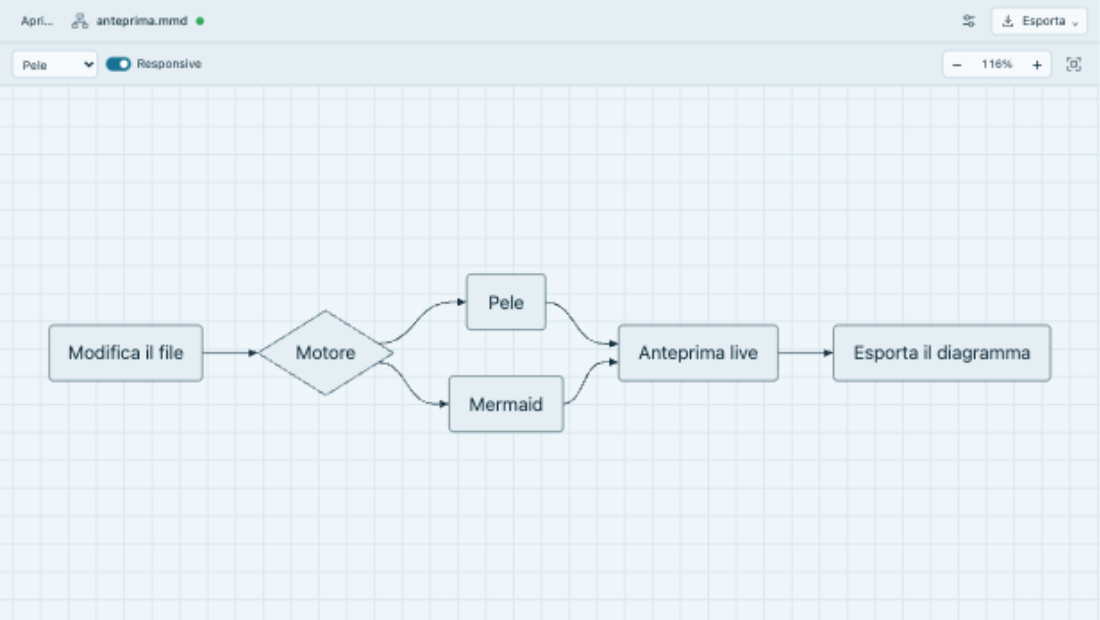
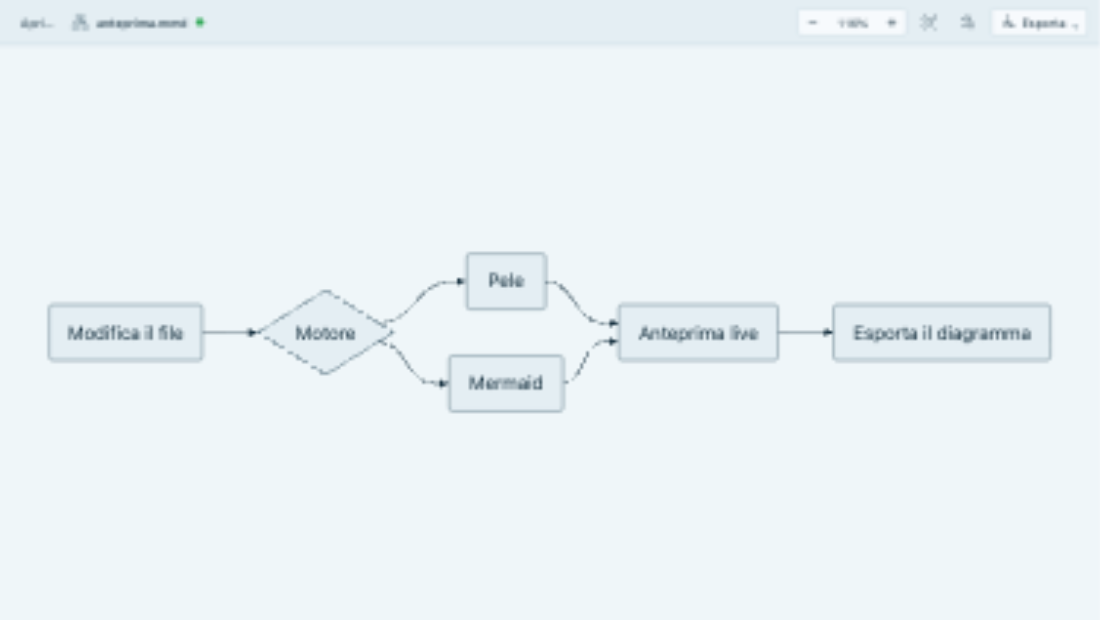
Compatta la barra e raccogli il rendering nelle impostazioni

diff --git a/public/index.html b/public/index.html
@@ -16,10 +16,24 @@
       <span id="file" class="file" title="nessun file">Nessun diagramma</span>
       <span id="live" class="dot" title="Stato aggiornamento live" aria-label="Stato aggiornamento live"></span>
     </div>
+    <div class="view-controls" role="group" aria-label="Zoom e inquadratura">
+      <div class="zoom-controls">
+        <button class="btn icon" data-zoom="out" title="Zoom indietro (−)" aria-label="Riduci zoom">−</button>
+        <button id="zoomLabel" class="btn wide" title="Centra al 100% (0)">100%</button>
+        <button class="btn icon" data-zoom="in" title="Zoom avanti (+)" aria-label="Aumenta zoom">+</button>
+      </div>
+      <button class="btn icon" id="fit" title="Adatta e centra (F)" aria-label="Adatta e centra"><svg viewBox="0 0 24 24" aria-hidden="true" fill="none" stroke="currentColor" stroke-width="1.6" stroke-linecap="round" stroke-linejoin="round"><path d="M8 3H3v5m13-5h5v5M3 16v5h5m13-5v5h-5"/><rect x="8" y="8" width="8" height="8" rx="1"/></svg></button>
+    </div>
     <div class="document-actions">
       <div class="menu">
         <button class="btn icon" id="optionsBtn" title="Opzioni anteprima" aria-label="Opzioni anteprima" aria-expanded="false" aria-controls="optionsMenu"><svg viewBox="0 0 24 24" aria-hidden="true" fill="none" stroke="currentColor" stroke-width="1.6" stroke-linecap="round" stroke-linejoin="round"><path d="M4 7h16M4 17h16"/><circle cx="9" cy="7" r="3" fill="var(--bar)"/><circle cx="15" cy="17" r="3" fill="var(--bar)"/></svg></button>
         <div id="optionsMenu" class="dropdown options" hidden>
+          <label class="option-field" for="engine">Motore di rendering
+            <select id="engine" class="btn" title="Motore di rendering"><option value="pele">Pele</option><option value="mermaid">Mermaid</option></select>
+          </label>
+          <label class="responsive-toggle" title="Adatta il layout alla larghezza del pannello">
+            <input type="checkbox" role="switch" id="responsive" checked><span class="switch-track" aria-hidden="true"></span><span>Responsive</span>
+          </label>
           <label class="option-field" for="theme">Tema del diagramma
             <select id="theme" class="btn">
               <option value="auto">Automatico</option><option value="default">Chiaro</option>
@@ -32,7 +46,7 @@
         </div>
       </div>
       <div class="menu">
-        <button class="btn export" id="exportBtn" aria-expanded="false" aria-controls="exportMenu"><svg viewBox="0 0 24 24" aria-hidden="true" fill="none" stroke="currentColor" stroke-width="1.6" stroke-linecap="round" stroke-linejoin="round"><path d="M12 3v12m-4-4 4 4 4-4M5 16v4h14v-4"/></svg><span>Esporta</span><span class="chevron">⌄</span></button>
+        <button class="btn export" id="exportBtn" aria-label="Esporta diagramma" title="Esporta diagramma" aria-expanded="false" aria-controls="exportMenu"><svg viewBox="0 0 24 24" aria-hidden="true" fill="none" stroke="currentColor" stroke-width="1.6" stroke-linecap="round" stroke-linejoin="round"><path d="M12 3v12m-4-4 4 4 4-4M5 16v4h14v-4"/></svg><span>Esporta</span><span class="chevron">⌄</span></button>
         <div class="dropdown" id="exportMenu" hidden>
           <button data-export="svg">SVG <span>Vettoriale</span></button>
           <button data-export="png@1">PNG <span>1×</span></button>
@@ -41,22 +55,6 @@
           <button data-export="pdf">PDF</button>
         </div>
       </div>
-    </div>
-  </div>
-  <div class="controls-row">
-    <div class="render-controls">
-      <select id="engine" class="btn engine" aria-label="Motore di rendering" title="Motore di rendering"><option value="pele">Pele</option><option value="mermaid">Mermaid</option></select>
-      <label class="responsive-toggle" title="Adatta il layout alla larghezza del pannello">
-        <input type="checkbox" role="switch" id="responsive" checked><span class="switch-track" aria-hidden="true"></span><span>Responsive</span>
-      </label>
-    </div>
-    <div class="view-controls" role="group" aria-label="Zoom e inquadratura">
-      <div class="zoom-controls">
-        <button class="btn icon" data-zoom="out" title="Zoom indietro (−)" aria-label="Riduci zoom">−</button>
-        <button id="zoomLabel" class="btn wide" title="Centra al 100% (0)">100%</button>
-        <button class="btn icon" data-zoom="in" title="Zoom avanti (+)" aria-label="Aumenta zoom">+</button>
-      </div>
-      <button class="btn icon" id="fit" title="Adatta e centra (F)" aria-label="Adatta e centra"><svg viewBox="0 0 24 24" aria-hidden="true" fill="none" stroke="currentColor" stroke-width="1.6" stroke-linecap="round" stroke-linejoin="round"><path d="M8 3H3v5m13-5h5v5M3 16v5h5m13-5v5h-5"/><rect x="8" y="8" width="8" height="8" rx="1"/></svg></button>
     </div>
   </div>
 </header>

diff --git a/public/style.css b/public/style.css
@@ -41,7 +41,7 @@ html, body {
   font: 13px/1.45 -apple-system, BlinkMacSystemFont, "Segoe UI", Inter, system-ui, sans-serif;
 }
 
-/* A document strip and a stable control strip, even in a narrow editor group. */
+/* A single flexible command bar; rendering preferences live in Options. */
 body { display: flex; flex-direction: column; }
 .bar {
   flex: none; background: var(--bar); border-bottom: 1px solid var(--line);
@@ -49,12 +49,11 @@ body { display: flex; flex-direction: column; }
   font-family: var(--vscode-font-family, -apple-system, BlinkMacSystemFont, "Segoe UI", sans-serif);
   font-size: 12px;
 }
-.document-row, .controls-row { display: flex; align-items: center; justify-content: space-between; min-width: 0; gap: 12px; padding: 7px 12px; }
-.document-row { min-height: 39px; }
-.controls-row { border-top: 1px solid var(--line); min-height: 43px; }
-.document-info, .document-actions, .render-controls, .view-controls { display: flex; align-items: center; gap: 8px; min-width: 0; }
+.document-row { display: flex; align-items: center; justify-content: space-between; min-width: 0; gap: 12px; padding: 7px 12px; }
+.document-row { min-height: 44px; }
+.document-info, .document-actions, .view-controls { display: flex; align-items: center; gap: 8px; min-width: 0; }
 .document-info { flex: 1; }
-.document-actions, .view-controls, .render-controls { flex: none; }
+.document-actions, .view-controls { flex: none; }
 .document-actions { position: relative; }
 .document-actions > .menu:first-child { position: static; }
 .document-icon { display: flex; color: var(--dim); flex: none; }
@@ -72,7 +71,6 @@ body { display: flex; flex-direction: column; }
 .btn.icon { width: 28px; padding: 0; font-size: 16px; }
 .btn.wide { min-width: 52px; padding: 0 3px; font-variant-numeric: tabular-nums; font-size: 11px; }
 select.btn { appearance: auto; background: var(--btn); border-color: var(--line); padding: 0 6px; }
-.engine { width: 86px; }
 .zoom-controls { display: flex; align-items: center; background: var(--btn); border: 1px solid var(--line); border-radius: 6px; }
 .zoom-controls .btn { height: 26px; }
 .export { border-color: var(--line); background: var(--btn); }
@@ -99,12 +97,24 @@ select.btn { appearance: auto; background: var(--btn); border-color: var(--line)
   --accent: var(--vscode-focusBorder, #007fd4);
   --grid: color-mix(in srgb, var(--fg) 6%, var(--bg));
 }
-@media (max-width: 380px) {
-  .document-row, .controls-row { padding-inline: 8px; gap: 6px; }
-  .render-controls, .view-controls { gap: 5px; }
-  .engine { width: 76px; }
-  .controls-row { flex-wrap: wrap; }
-  .view-controls { margin-left: auto; }
+@media (max-width: 520px) {
+  .document-row { padding-inline: 8px; gap: 6px; }
+  .document-actions, .document-info, .view-controls { gap: 4px; }
+  .export span { display: none; }
+  .export { width: 28px; padding: 0; }
+  .document-icon { display: none; }
+}
+@media (max-width: 340px) {
+  .document-row { padding-inline: 6px; gap: 4px; }
+  .document-info .dot { display: none; }
+  .btn.wide { min-width: 44px; }
+  .zoom-controls .btn.icon { width: 24px; }
+  .file { font-size: 11px; }
+}
+@media (max-width: 250px) {
+  .document-row { flex-wrap: wrap; }
+  .document-info { flex-basis: 100%; }
+  .document-actions { margin-left: auto; }
 }
 
 .dot {
@@ -146,7 +156,7 @@ select.btn { appearance: auto; background: var(--btn); border-color: var(--line)
 }
 .dropdown button span { color: var(--dim); margin-left: auto; font-size: 11px; }
 .dropdown button { display: flex; gap: 18px; }
-.options { width: 226px; padding: 14px; gap: 16px; }
+.options { width: min(226px, calc(100vw - 16px)); padding: 14px; gap: 16px; }
 .option-field { display: flex; flex-direction: column; gap: 8px; }
 .option-field select { width: 100%; }
 .option-check { font-size: 12px; }

diff --git a/tests/browser.js b/tests/browser.js
@@ -36,6 +36,17 @@
       return Math.abs(a.x + a.width / 2 - b.x - b.width / 2) < 1 && Math.abs(a.y + a.height / 2 - b.y - b.height / 2) < 1;
     };
     assert(doc.body.scrollWidth <= 420, 'Toolbar fits a narrow side panel');
+    assert(doc.querySelector('#optionsMenu').contains(doc.querySelector('#engine')) && doc.querySelector('#optionsMenu').contains(doc.querySelector('#responsive')), 'Rendering preferences live in Options');
+    for (const width of [320, 420]) {
+      frame.style.width = `${width}px`;
+      await new Promise(r => setTimeout(r, 200));
+      const controls = ['#zoomLabel', '#fit', '#optionsBtn', '#exportBtn'].map(s => doc.querySelector(s).getBoundingClientRect());
+      assert(controls.every(r => r.left >= 0 && r.right <= width && Math.abs(r.y - controls[0].y) <= 1), `Toolbar stays on one row at ${width}px`);
+      doc.querySelector('#optionsBtn').click();
+      const menu = doc.querySelector('#optionsMenu').getBoundingClientRect();
+      assert(menu.left >= 0 && menu.right <= width, `Options stay within ${width}px`);
+      doc.querySelector('#optionsBtn').click();
+    }
     assert(svg().viewBox.baseVal.height > svg().viewBox.baseVal.width, 'Responsive Pele adapts direction');
     doc.querySelector('#responsive').click();
     await wait(() => doc.querySelector('#zoomLabel').textContent === '100%' && svg().viewBox.baseVal.width > svg().viewBox.baseVal.height);
@@ -49,7 +60,7 @@
     assert(true, 'Enabling responsive recenters the diagram');
     const responsiveSVG = svg();
     frame.style.height = '600px';
-    await wait(() => stage.clientHeight < 550 && centered());
+    await wait(() => stage.clientHeight === 600 - doc.querySelector(".bar").offsetHeight && centered());
     assert(svg() === responsiveSVG, 'Height-only resize does not rebuild the diagram');
     doc.querySelector('[data-zoom="in"]').click();
     const zoom = doc.querySelector('#zoomLabel').textContent;

diff --git a/README.md b/README.md
@@ -7,7 +7,7 @@ VS Code. Interfaccia in italiano, pan/zoom, temi ed esportazione locale.
 ## Anteprima dell’interfaccia
 
 VS Code: sorgente con syntax highlighting e icona Mermaid, anteprima affiancata
-senza margini laterali. La barra separa i comandi del file dai controlli del diagramma.
+senza margini laterali. La barra compatta mantiene nome file, zoom, impostazioni ed esportazione sulla stessa riga.
 
 ![Syntax highlighting e anteprima affiancata in VS Code](docs/images/vscode-preview.png)
 
@@ -18,6 +18,8 @@ App browser con tema **Oceano**:
 Interfaccia della webview con tema **Prugna**, verificata in un pannello da 420 px:
 
 <img src="docs/images/webview-plum.png" alt="Webview compatta con tema Prugna e layout verticale responsive" width="420">
+
+<img src="docs/images/webview-options.png" alt="Impostazioni con motore, Responsive e tema" width="420">
 
 Gli screenshot usano [il diagramma di esempio](examples/anteprima.mmd).
 
@@ -40,7 +42,7 @@ L’anteprima segue anche le modifiche non salvate, con debounce di 100 ms. Ogni
 file ha il proprio pannello: richiamare il comando riutilizza quello esistente.
 Non richiede Bun, un server o una connessione Internet.
 
-Puoi scegliere **Pele / Mermaid** e **Responsive** nella barra. Le opzioni della
+Puoi scegliere **Pele / Mermaid** e **Responsive** dal menu **Opzioni anteprima**. Le opzioni della
 singola anteprima sopravvivono quando il pannello viene nascosto; i valori
 predefiniti per le nuove anteprime sono configurabili nelle impostazioni:
 
@@ -54,7 +56,7 @@ predefiniti per le nuove anteprime sono configurabili nelle impostazioni:
 Il tema automatico segue VS Code. La webview occupa tutta la larghezza del pannello,
 senza il padding laterale predefinito. Il pulsante Apri, il selettore di file e il
 trascinamento sono disabilitati nella webview: apri i documenti dall’editor o da Explorer.
-Tema e Markdown sono nel menu **Opzioni anteprima**, accanto a **Esporta**. SVG, PNG e PDF aprono la finestra di salvataggio nativa. Il PDF viene generato
+Motore, Responsive, tema e Markdown sono nel menu **Opzioni anteprima**, accanto a **Esporta**. Sui pannelli stretti il nome del file si accorcia e il pulsante Esporta mostra solo l’icona; i comandi restano accessibili. SVG, PNG e PDF aprono la finestra di salvataggio nativa. Il PDF viene generato
 localmente a richiesta, senza browser esterni o servizi online.
 
 ## App browser
